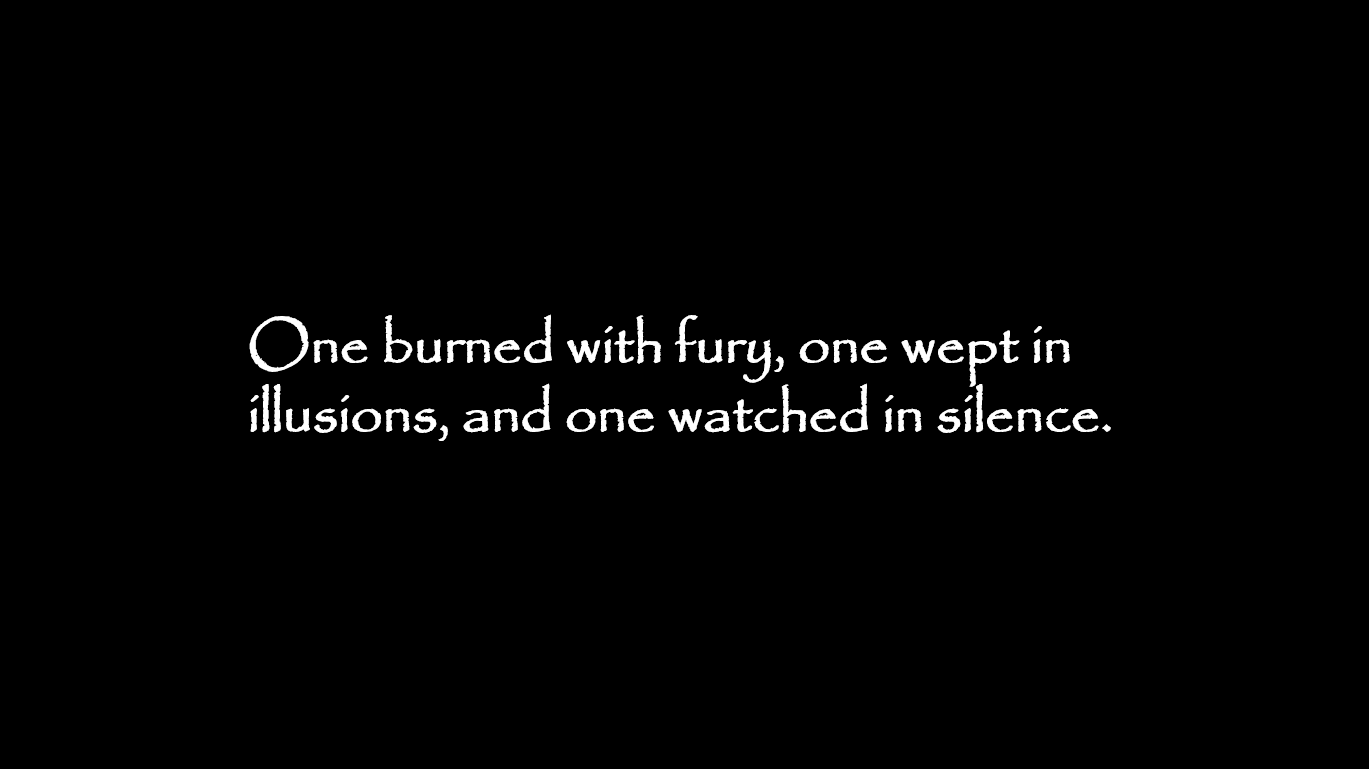
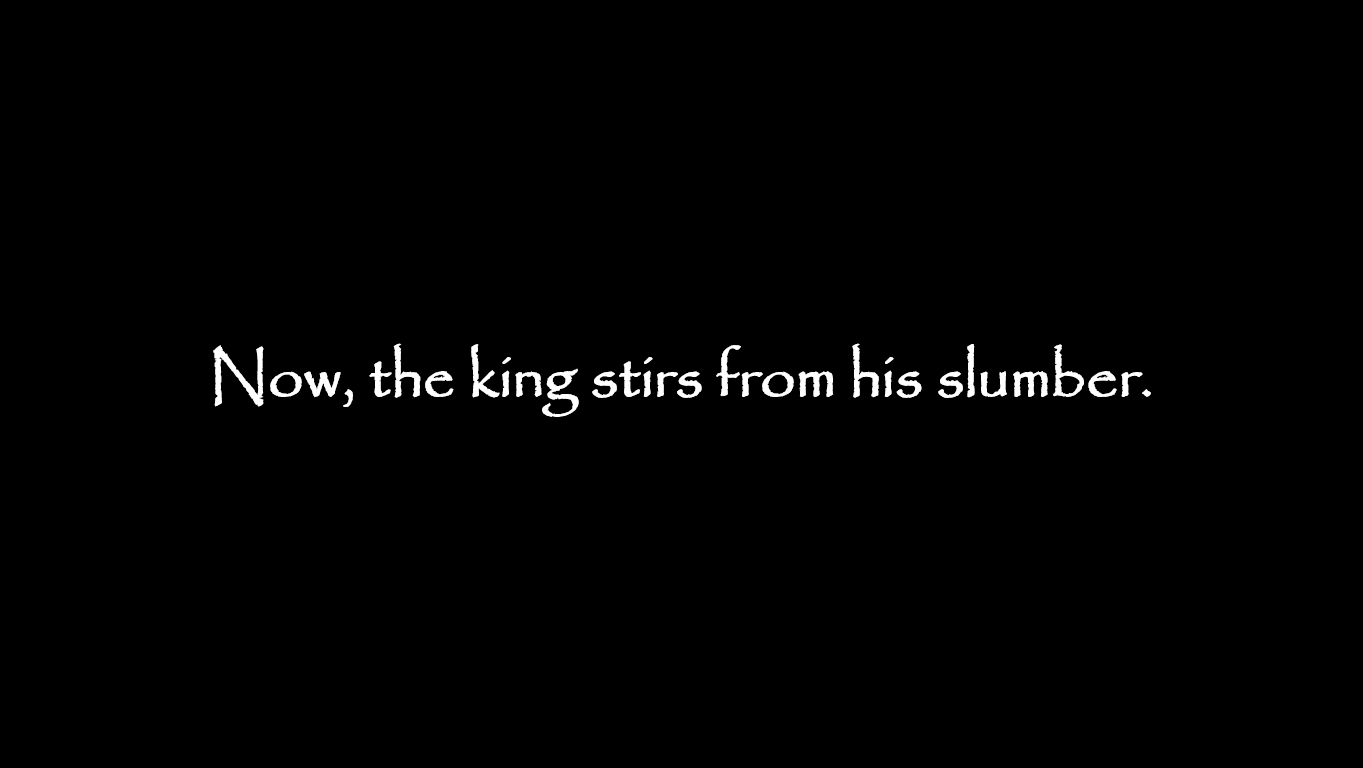
开场动画更新

Changed region(s): [[0.1541, 0.4062, 0.832, 0.5625]]

diff --git a/Saltedfish.js b/Saltedfish.js
@@ -18,10 +18,10 @@ const hitSounds = {
 const openingScreen = document.createElement('div');
 openingScreen.id = 'openingScreen';
 
+
+
 // 创建一个图片元素
 const img = document.createElement('img');
-img.src = 'Opening/Opening1.png'; // 替换为你的图片路径
-img.alt = 'King of Salted Fish'; // 替换为适当的替代文本
 
 // 将图片添加到 openingScreen 中
 openingScreen.appendChild(img);
@@ -162,47 +162,88 @@ function initHero() {
   heroHPBar.style.top = `${hero.y - 20}px`; // 血条位于主角上方
 }
 
+// 在预加载阶段添加优先级提示
+function preloadImages(images) {
+  images.forEach(src => {
+      const link = document.createElement('link');
+      link.rel = 'preload';
+      link.as = 'image';
+      link.href = src;
+      document.head.appendChild(link);
+  });
+}
+
+// 图片路径数组（根据你的实际路径修改）
+const openingImages = [
+  'Opening/Opening1.png',
+  'Opening/Opening2.png',
+  'Opening/Opening3.png',
+  'Opening/Opening4.png',
+  'Opening/Opening5.png',
+];
+
 function playOpeningAnimation() {
-  const openingScreen = document.getElementById('openingScreen'); // 假设开幕动画的容器元素是 openingScreen
-  openingScreen.style.display = 'flex'; // 显示开幕动画
+  const openingScreen = document.getElementById('openingScreen');
+  let currentIndex = 0;
+  let animationSkipped = false;
 
-  let animationSkipped = false; // 标记动画是否被跳过
+  // 创建图片容器
+  const img = document.createElement('img');
+  openingScreen.appendChild(img);
 
-  // 监听键盘事件
-  const skipAnimation = (event) => {
-    if (event.keyCode === 32) { // 32 是空格键的 keyCode
-      event.preventDefault(); // 防止空格键触发默认行为（如滚动页面）
-      if (!animationSkipped) { // 如果动画未被跳过
-        animationSkipped = true; // 标记动画被跳过
-        openingScreen.style.opacity = '0'; // 立即淡出动画
-        setTimeout(() => {
-          openingScreen.style.display = 'none'; // 隐藏动画
-          startGame(); // 直接开始游戏
-        }, 500); // 500ms 是淡出动画的时间
-        window.removeEventListener('keydown', skipAnimation); // 移除事件监听器
+  // 预加载图片
+  preloadImages(openingImages);
+
+
+  
+  // 显示首屏
+  openingScreen.style.display = 'flex';
+  
+  const showNextImage = () => {
+      if (currentIndex >= openingImages.length || animationSkipped) {
+          // 动画结束
+          openingScreen.style.opacity = '0';
+          setTimeout(() => {
+              openingScreen.style.display = 'none';
+              startGame();
+          }, 500);
+          return;
       }
-    }
+
+      // 更新图片源
+      img.src = openingImages[currentIndex];
+      openingScreen.style.opacity = '1';
+
+      // 设置定时切换
+      setTimeout(() => {
+          if (animationSkipped) return;
+          openingScreen.style.opacity = '0';
+          setTimeout(() => {
+              currentIndex++;
+              showNextImage();
+          }, 500); // 淡出动画时间
+      }, 5000); // 每张图片显示时间
   };
 
-  window.addEventListener('keydown', skipAnimation); // 添加事件监听器
+  // 开始播放序列
+  setTimeout(showNextImage, 100);
 
-  setTimeout(() => {
-    if (!animationSkipped) { // 如果动画未被跳过
-      openingScreen.style.opacity = '1'; // 文字渐显
-      setTimeout(() => {
-        if (!animationSkipped) { // 再次检查动画是否被跳过
-          openingScreen.style.opacity = '0'; // 3秒后文字淡出
-          setTimeout(() => {
-            if (!animationSkipped) { // 再次检查动画是否被跳过
-              openingScreen.style.display = 'none'; // 2秒后隐藏动画
-              startGame(); // 开幕动画结束后开始游戏
-              window.removeEventListener('keydown', skipAnimation); // 移除事件监听器
-            }
-          }, 2500);
-        }
-      }, 5000); // 5秒后淡出
-    }
-  }, 100);
+  // 跳过动画逻辑
+  const skipAnimation = (event) => {
+      if (event.keyCode === 32) { // 空格键
+          event.preventDefault();
+          if (!animationSkipped) {
+              animationSkipped = true;
+              openingScreen.style.opacity = '0';
+              setTimeout(() => {
+                  openingScreen.style.display = 'none';
+                  startGame();
+                  window.removeEventListener('keydown', skipAnimation);
+              }, 500);
+          }
+      }
+  };
+  window.addEventListener('keydown', skipAnimation);
 }
 
 /********************

diff --git a/gamec.css b/gamec.css
@@ -404,3 +404,41 @@
   z-index: 9999;
   display: none; /* 初始隐藏 */
 }
+
+
+#openingScreen {
+  position: fixed;
+  top: 0;
+  left: 0;
+  width: 100vw;       /* 全视窗宽度 */
+  height: 100vh;      /* 全视窗高度 */
+  background: black;
+  display: none;
+  justify-content: center; /* 水平居中 */
+  align-items: center;     /* 垂直居中 */
+  transition: opacity 0.5s ease-in-out;
+  z-index: 9999;      /* 确保在最上层 */
+}
+
+#openingScreen img {
+  max-width: 90%;     /* 限制最大宽度 */
+  max-height: 90%;    /* 限制最大高度 */
+  object-fit: contain; /* 保持图片比例 */
+  margin: auto;       /* 双重保障居中 */
+}
+
+/* 针对移动端特殊适配 */
+@media (max-aspect-ratio: 9/16) {
+  #openingScreen img {
+      max-width: 85vw !important;
+      max-height: none !important;
+  }
+}
+
+/* 超宽屏适配 */
+@media (min-aspect-ratio: 21/9) {
+  #openingScreen img {
+      max-height: 85vh !important;
+      max-width: none !important;
+  }
+}
